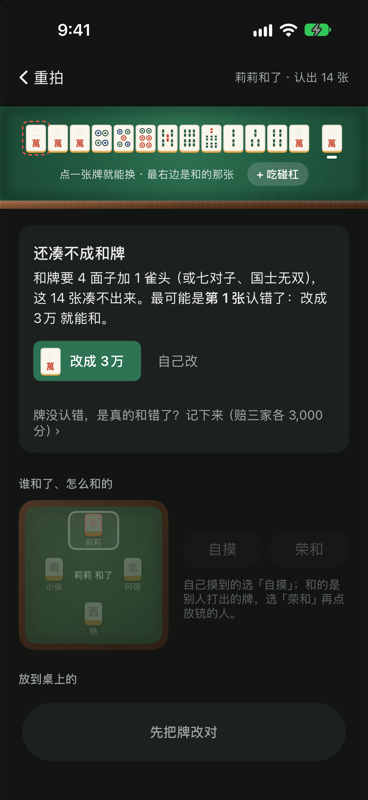
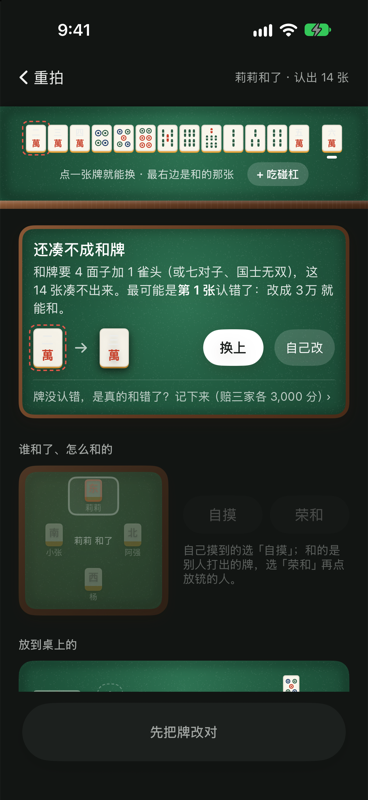
Restyle the unclear-tile and not-a-win cards as felt panels
The unclear tile is lifted off the felt with its candidates laid below and a
small wins / no-win tag; the not-a-win card shows the suggested swap as
tile -> tile with a white Swap button. Both use the felt card with a walnut edge.

diff --git a/app/MajiangApp/Round/CheckView.swift b/app/MajiangApp/Round/CheckView.swift
@@ -69,7 +69,7 @@ struct CheckView: View {
                     problemCard.padding(.top, 18)
                 } else if flow.tiles.isEmpty {
                     // 手动输入还没加牌时，和错了也要能直接记
-                    falseWinLink.padding(.top, 8)
+                    falseWinLink().padding(.top, 8)
                 }
 
                 howWon
@@ -400,7 +400,7 @@ struct CheckView: View {
             reason = Text("和牌要 4 面子加 1 雀头（或七对子、国士无双），这 \(flow.hand.allTiles.count) 张凑不出来。")
         }
         if let suggestion, let index = suggestion.index {
-            reason = reason + Text("最可能是") + Text("第 \(index + 1) 张").fontWeight(.semibold).foregroundStyle(Theme.ink)
+            reason = reason + Text("最可能是") + Text("第 \(index + 1) 张").fontWeight(.semibold).foregroundStyle(.white)
                 + Text("认错了：改成 \(suggestion.to.displayName) 就能和。")
         } else if let suggestion {
             reason = reason + Text("好像少认了一张：补一张 \(suggestion.to.displayName) 就能和。")
@@ -409,56 +409,69 @@ struct CheckView: View {
                                     : "改一张也凑不成，可能不止一张认错了，点右上角的照片对照着再看看。")
         }
 
+        // 绿毡上的一块：标题、原因；能改一张就和时，摆出「这张 → 那张」，点一下换上
         return VStack(alignment: .leading, spacing: 0) {
             Text(title).font(.system(size: 17, weight: .semibold))
             reason
-                .font(.system(size: 15))
-                .foregroundStyle(Theme.ink)
-                .lineSpacing(4)
+                .font(.system(size: 14))
+                .foregroundStyle(.white.opacity(0.85))
+                .lineSpacing(3)
                 .fixedSize(horizontal: false, vertical: true)
-                .padding(.top, 8)
+                .padding(.top, 6)
             if let suggestion {
                 HStack(spacing: 12) {
+                    if let index = suggestion.index, flow.tiles.indices.contains(index) {
+                        TileFace(tile: flow.tiles[index].tile, width: 32, state: .wrong)
+                    } else {
+                        RoundedRectangle(cornerRadius: 5, style: .continuous)
+                            .strokeBorder(.white.opacity(0.7), style: StrokeStyle(lineWidth: 1, dash: [3, 3]))
+                            .frame(width: 32, height: 42)
+                    }
+                    Image(systemName: "arrow.right")
+                        .font(.system(size: 14, weight: .semibold))
+                        .foregroundStyle(.white.opacity(0.7))
+                    TileFace(tile: suggestion.to, width: 32)
+                        .shadow(color: .black.opacity(0.3), radius: 4, y: 3)
+                    Spacer(minLength: 4)
                     Button {
                         flow.apply(suggestion)
                     } label: {
-                        HStack(spacing: 10) {
-                            TileFace(tile: suggestion.to, width: 22)
-                            Text(suggestion.index == nil ? "补一张 \(suggestion.to.displayName)" : "改成 \(suggestion.to.displayName)")
-                                .font(.system(size: 15, weight: .semibold))
-                        }
-                        .padding(.leading, 8)
-                        .padding(.trailing, 18)
-                        .frame(height: 44)
-                        .foregroundStyle(.white)
-                        .background(Theme.fill, in: RoundedRectangle(cornerRadius: 8, style: .continuous))
-                        .contentShape(RoundedRectangle(cornerRadius: 8, style: .continuous))
+                        Text(suggestion.index == nil ? tr("补上", "補う", "Add it") : tr("换上", "差し替え", "Swap in"))
+                            .font(.system(size: 15, weight: .semibold))
+                            .foregroundStyle(Theme.tileInk)
+                            .padding(.horizontal, 18)
+                            .frame(height: 40)
+                            .background(.white, in: Capsule())
+                            .contentShape(Capsule())
+                    }
+                    .buttonStyle(PressFade())
+                    Button { editing = suggestion.index.map { .replace($0) } ?? .add } label: {
+                        Text(tr("自己改", "自分で", "Pick"))
+                            .font(.system(size: 14))
+                            .padding(.horizontal, 12)
+                            .frame(height: 40)
+                            .background(.white.opacity(0.16), in: Capsule())
                     }
                     .buttonStyle(.plain)
-                    Button("自己改") { editing = suggestion.index.map { .replace($0) } ?? .add }
-                        .buttonStyle(.text)
-                        .padding(.horizontal, 6)
                 }
-                .padding(.top, 16)
+                .padding(.top, 14)
             }
-            Hairline(color: Theme.lineSoft)
-                .padding(.top, 16)
-                .padding(.bottom, 12)
-            falseWinLink
+            Rectangle().fill(.white.opacity(0.15)).frame(height: 0.5)
+                .padding(.top, 14)
+                .padding(.bottom, 10)
+            falseWinLink(onFelt: true)
         }
-        .padding(.top, 20)
-        .padding(.bottom, 16)
-        .block()
+        .feltCard()
     }
 
-    private var falseWinLink: some View {
+    private func falseWinLink(onFelt: Bool = false) -> some View {
         Button {
             confirmFalseWin = true
         } label: {
             Text(flow.tiles.isEmpty ? "其实是和错了？记下来（赔三家各 \(game.rules.falseWinPenalty) 分）›"
                  : "牌没认错，是真的和错了？记下来（赔三家各 \(game.rules.falseWinPenalty) 分）›")
-                .font(.system(size: 14))
-                .foregroundStyle(Theme.gray)
+                .font(.system(size: 13))
+                .foregroundStyle(onFelt ? .white.opacity(0.7) : Theme.gray)
                 .multilineTextAlignment(.leading)
         }
         .buttonStyle(.plain)
@@ -723,63 +736,81 @@ private struct QuestionCard: View {
     private var candidates: [Tile] { Array(tile.candidates.prefix(tile.uncertain ? 3 : 4)) }
     private var onlyOneSide: Bool { tile.uncertain && tile.alternatives.isEmpty }
 
+    /// 拿不准的那张从绿毡上拿起来（斜一点、有影子），候选的牌摆在下面，标着选了能不能和。
     var body: some View {
-        VStack(alignment: .leading, spacing: 0) {
-            Text(onlyOneSide
-                 ? tr("第 \(index + 1) 张可能是多认的，照片里有这张吗？", "\(index + 1)枚目は余分に認識された可能性があります。実際にありますか？", "Tile #\(index + 1) might be extra. Is it in the photo?")
-                 : tr("第 \(index + 1) 张看不太清，是哪个？", "\(index + 1)枚目が不鮮明です。どちらですか？", "Tile #\(index + 1) is unclear. Which one is it?"))
-                .font(.system(size: 16, weight: .semibold))
-            LazyVGrid(columns: [GridItem(.flexible(), spacing: 10), GridItem(.flexible(), spacing: 10)], spacing: 10) {
-                ForEach(candidates, id: \.self) { tile in
-                    option(title: onlyOneSide ? tr("有这张", "ある", "Present") : tile.displayName, wins: hint(for: tile)) {
-                        TileFace(tile: tile, width: 30)
+        VStack(alignment: .leading, spacing: 14) {
+            HStack(spacing: 14) {
+                TileFace(tile: tile.tile, width: 40, state: .doubt)
+                    .rotationEffect(.degrees(-6))
+                    .shadow(color: .black.opacity(0.35), radius: 8, y: 8)
+                    .offset(y: -2)
+                VStack(alignment: .leading, spacing: 3) {
+                    Text(onlyOneSide
+                         ? tr("这张可能是多认的", "余分に認識した可能性", "This one might be extra")
+                         : tr("这张看不太清", "この牌が不鮮明です", "This tile is unclear"))
+                        .font(.system(size: 17, weight: .semibold))
+                    Text(onlyOneSide
+                         ? tr("第 \(index + 1) 张 · 照片里有这张吗？", "\(index + 1)枚目・写真にありますか？", "Tile #\(index + 1) · Is it in the photo?")
+                         : tr("第 \(index + 1) 张 · 是下面哪一张？", "\(index + 1)枚目・どれですか？", "Tile #\(index + 1) · Which one is it?"))
+                        .font(.system(size: 13))
+                        .foregroundStyle(.white.opacity(0.75))
+                }
+            }
+            HStack(alignment: .top, spacing: 14) {
+                ForEach(candidates, id: \.self) { candidate in
+                    option(title: onlyOneSide ? tr("有这张", "ある", "Present") : candidate.displayName, wins: hint(for: candidate)) {
+                        TileFace(tile: candidate, width: 36)
                     } action: {
-                        flow.choose(tile, at: index)
+                        flow.choose(candidate, at: index)
                     }
                 }
                 if tile.uncertain {
                     option(title: tr("没有这张", "ない", "Not there"), wins: removalHint) {
-                        RoundedRectangle(cornerRadius: 30 * 0.16, style: .continuous)
-                            .strokeBorder(Theme.faint, style: StrokeStyle(lineWidth: 1, dash: [4, 3]))
-                            .frame(width: 30, height: 40)
-                            .overlay(Image(systemName: "xmark").font(.system(size: 13)).foregroundStyle(Theme.gray))
+                        RoundedRectangle(cornerRadius: 36 * 0.16, style: .continuous)
+                            .strokeBorder(.white.opacity(0.7), style: StrokeStyle(lineWidth: 1, dash: [4, 3]))
+                            .frame(width: 36, height: 48)
+                            .overlay(Image(systemName: "xmark").font(.system(size: 14)).foregroundStyle(.white.opacity(0.8)))
                     } action: {
                         flow.remove(at: index)
                     }
                 }
+                Spacer(minLength: 0)
             }
-            .padding(.top, 14)
-            Button("都不是，自己选 ›", action: other)
-                .buttonStyle(.text(size: 14))
-                .padding(.top, 4)
+            Button(action: other) {
+                Text(tr("都不是，自己选 ›", "どれでもない ›", "None of these ›"))
+                    .font(.system(size: 13))
+                    .padding(.horizontal, 12)
+                    .frame(height: 32)
+                    .background(.white.opacity(0.16), in: Capsule())
+            }
+            .buttonStyle(.plain)
         }
-        .padding(.top, 18)
-        .padding(.bottom, 6)
-        .block()
+        .feltCard()
     }
 
+    /// 一张候选：牌、名字，下面一个小标签说选了能不能和（能和的牌描白圈）。
     private func option(title: String, wins: Bool?, @ViewBuilder face: () -> some View,
                         action: @escaping () -> Void) -> some View {
         Button(action: action) {
-            HStack(spacing: 12) {
+            VStack(spacing: 6) {
                 face()
-                VStack(alignment: .leading, spacing: 2) {
-                    Text(title).font(.system(size: 16, weight: .medium))
-                    if let wins {
-                        Text(wins ? tr("选这个能和", "これで和了可能", "Can win") : tr("选这个和不了", "これでは和了不可", "Cannot win"))
-                            .font(.system(size: 13))
-                            .foregroundStyle(wins ? Theme.positive : Theme.gray)
-                    }
+                    .padding(3)
+                    .overlay(RoundedRectangle(cornerRadius: 9, style: .continuous).strokeBorder(.white, lineWidth: wins == true ? 2 : 0))
+                    .shadow(color: .black.opacity(0.3), radius: 3, y: 2)
+                Text(title).font(.system(size: 12, weight: .medium)).lineLimit(1)
+                if let wins {
+                    Text(wins ? tr("能和", "和了可", "Wins") : tr("和不了", "不可", "No win"))
+                        .font(.system(size: 11, weight: .semibold))
+                        .foregroundStyle(wins ? Theme.tileInk : .white.opacity(0.7))
+                        .padding(.horizontal, 8)
+                        .frame(height: 20)
+                        .background(wins ? Color.white : Color.white.opacity(0.12), in: Capsule())
                 }
-                Spacer(minLength: 0)
             }
-            .padding(.horizontal, 14)
-            .frame(height: 64)
-            .background(Theme.paper, in: RoundedRectangle(cornerRadius: Theme.radius, style: .continuous))
-            .overlay(RoundedRectangle(cornerRadius: Theme.radius, style: .continuous).strokeBorder(Theme.line))
+            .frame(minWidth: 56)
             .contentShape(Rectangle())
         }
-        .buttonStyle(.plain)
+        .buttonStyle(PressFade())
     }
 
     /// 只有这一张拿不准时，直接试一下能不能和；好几张都拿不准时，用规则引擎推荐的那组读法。
@@ -973,5 +1004,21 @@ private struct ScoreBar: View {
         .padding(5)
         .background(Theme.card, in: Capsule())
         .shadow(color: .black.opacity(0.08), radius: 14, y: 6)
+    }
+}
+
+private extension View {
+    /// 核对页的提示块：一小块绿毡，胡桃木细边，白字。
+    func feltCard() -> some View {
+        self
+            .foregroundStyle(.white)
+            .padding(16)
+            .frame(maxWidth: .infinity, alignment: .leading)
+            .background(FeltTexture().clipShape(RoundedRectangle(cornerRadius: Theme.radius, style: .continuous)))
+            .overlay(
+                RoundedRectangle(cornerRadius: Theme.radius, style: .continuous)
+                    .strokeBorder(LinearGradient(colors: Theme.walnut, startPoint: .topLeading, endPoint: .bottomTrailing), lineWidth: 4)
+            )
+            .shadow(color: Color(hex: 0x28190A).opacity(0.18), radius: 8, y: 5)
     }
 }
